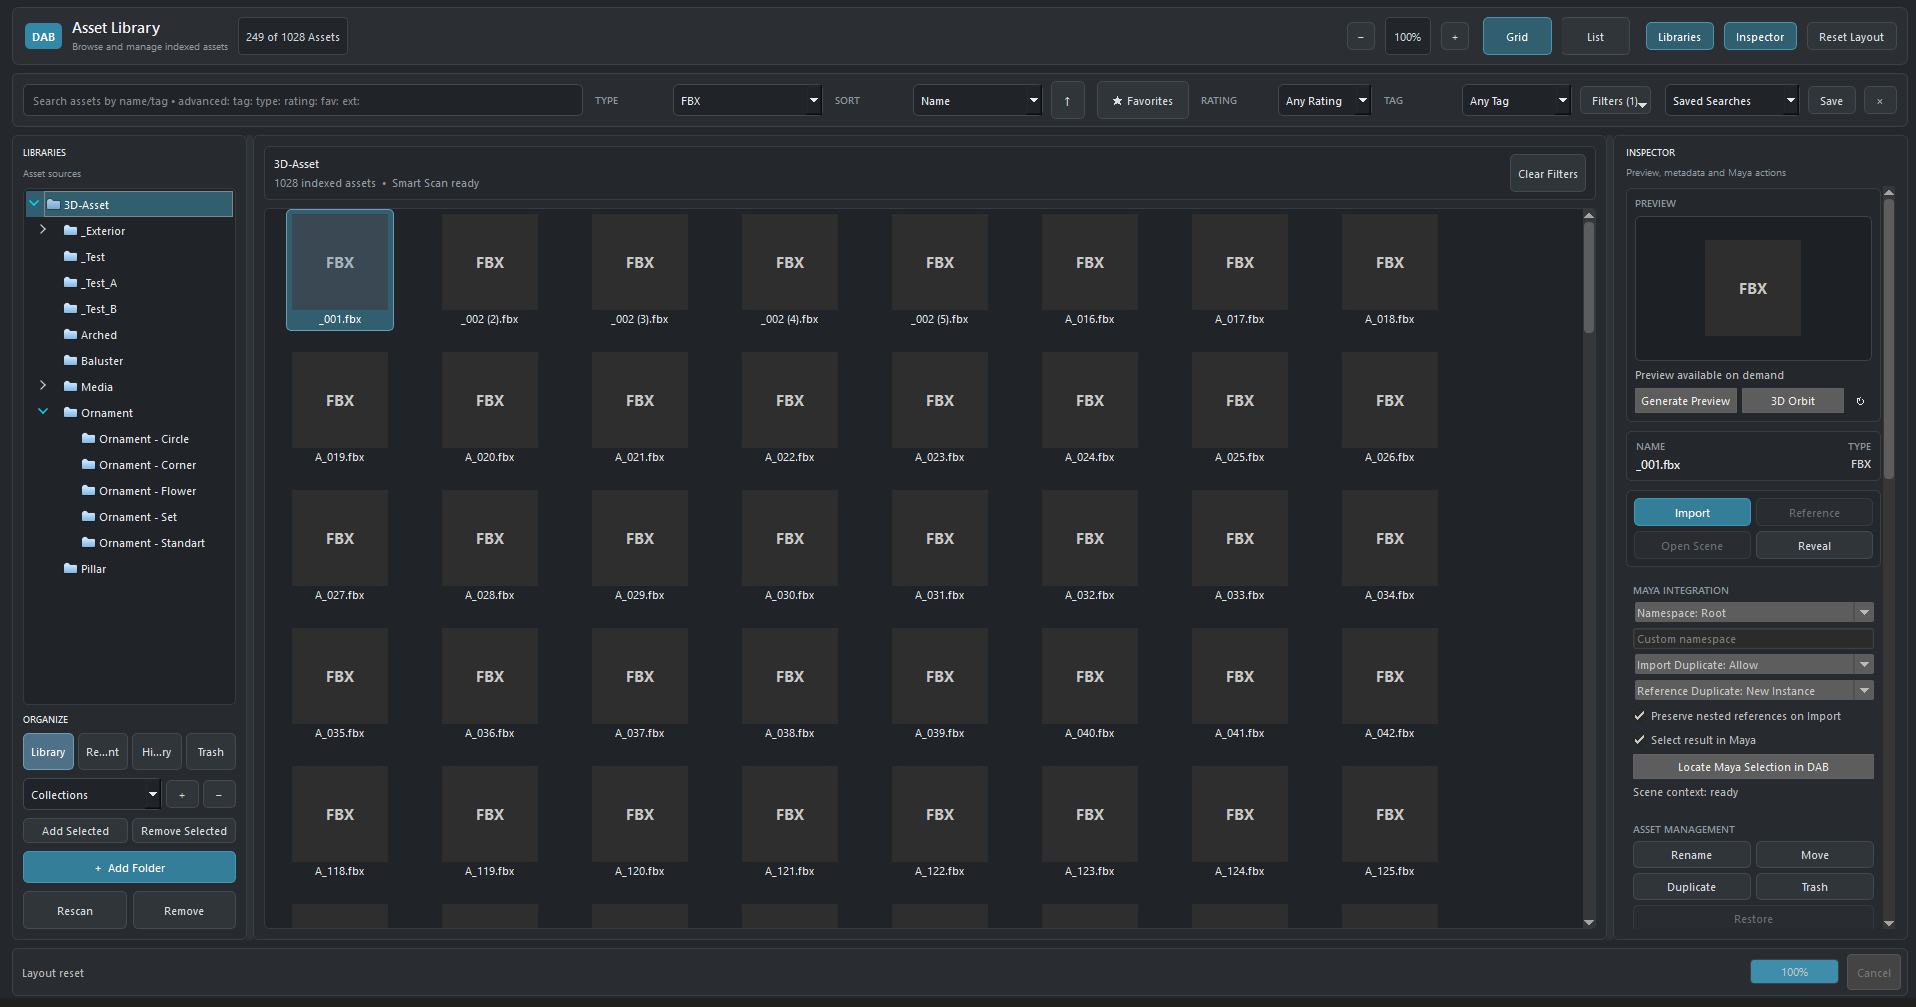
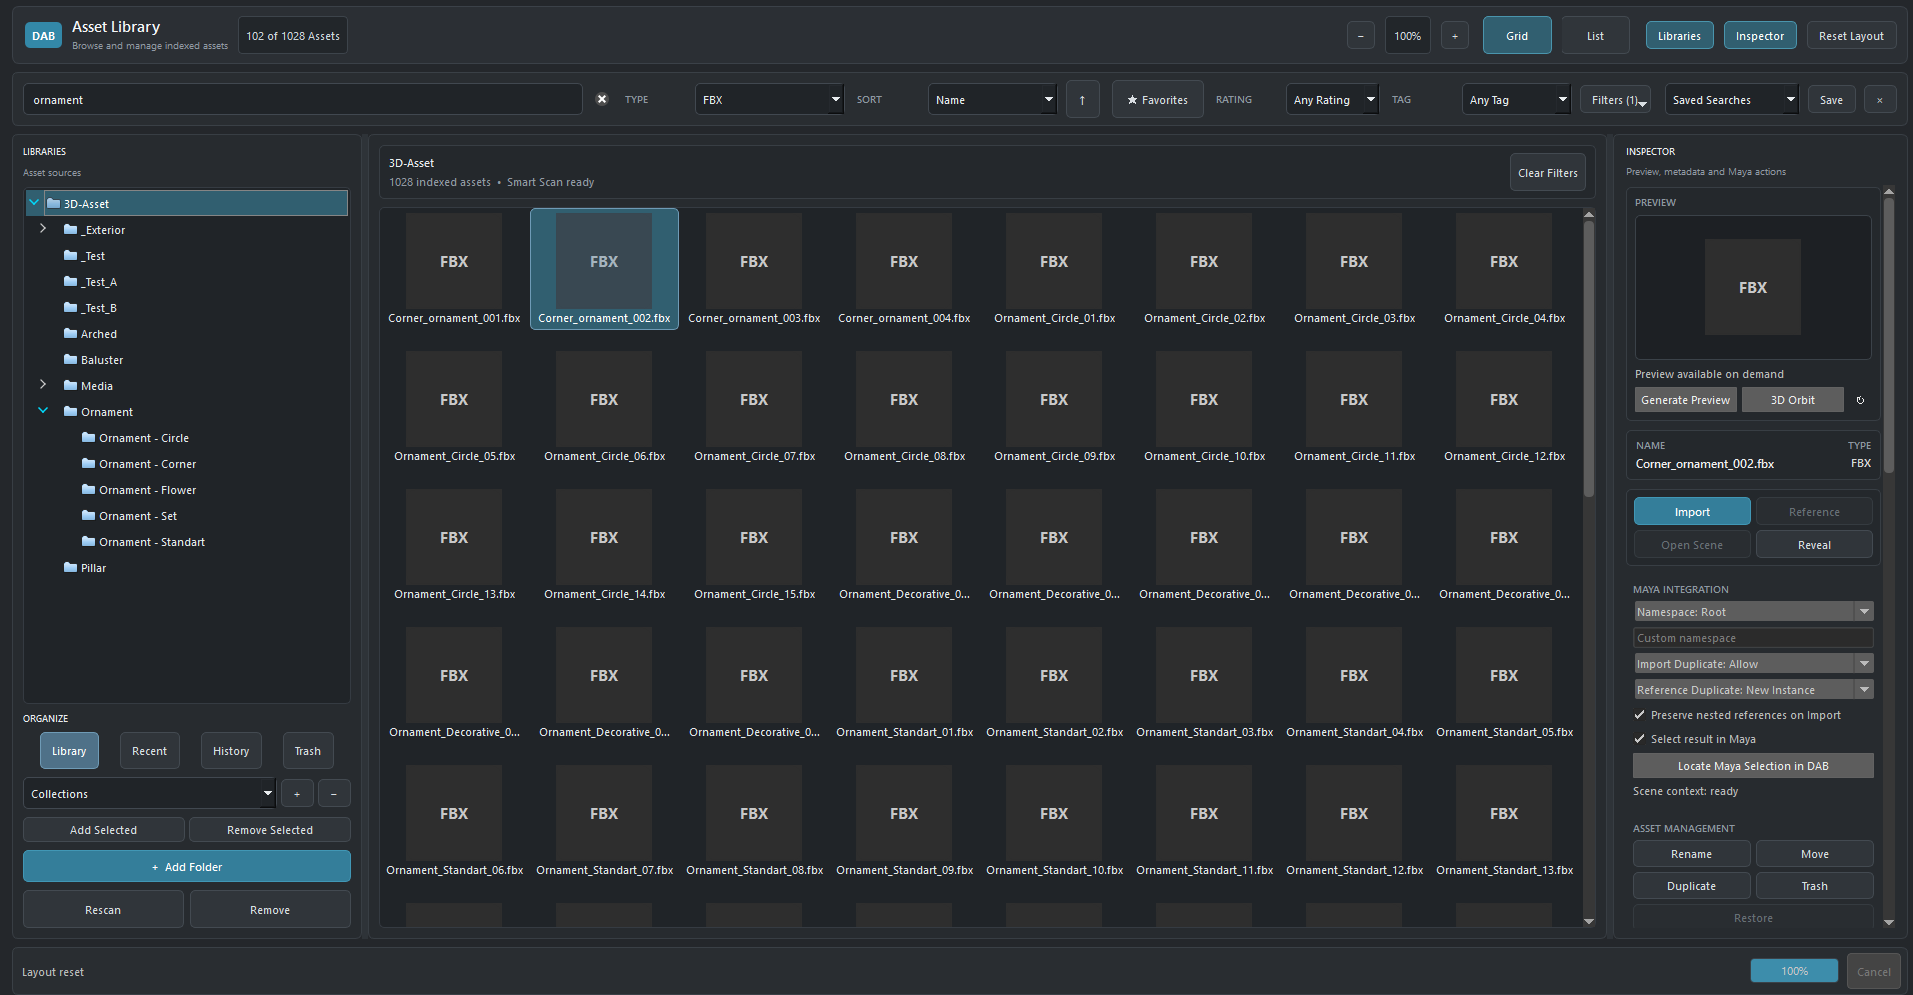
up

diff --git a/index.html b/index.html
@@ -2709,19 +2709,25 @@
       }
     }
 
-  
     .product-preview-intro {
       margin-top: 22px;
     }
 
     .product-preview-grid {
       display: grid;
-      grid-template-columns: repeat(2, minmax(0, 1fr));
-      gap: 24px;
+      grid-template-columns: 1fr;
+      gap: 22px;
       margin-top: 26px;
     }
 
     .product-preview-card {
+      display: grid;
+      grid-template-columns: minmax(260px, 360px) minmax(0, 1fr);
+      grid-template-areas:
+        "tag tag"
+        "image content";
+      gap: 18px 24px;
+      align-items: start;
       padding: 18px;
       border-radius: 22px;
       border: 1px solid rgba(86, 196, 255, 0.18);
@@ -2730,11 +2736,11 @@
     }
 
     .product-preview-card.featured {
-      grid-column: 1 / -1;
+      grid-column: auto;
     }
 
     .product-preview-card h3 {
-      margin: 16px 0 10px;
+      margin: 0 0 10px;
       font-size: 1.18rem;
       line-height: 1.35;
     }
@@ -2747,38 +2753,63 @@
     }
 
     .product-preview-card .zoom-shell {
+      grid-area: image;
       border-radius: 16px;
       overflow: hidden;
       border: 1px solid rgba(86, 196, 255, 0.16);
       background: rgba(2, 9, 16, 0.72);
+      min-height: 220px;
+      display: flex;
+      align-items: center;
+      justify-content: center;
+      padding: 14px;
     }
 
     .product-preview-card .zoomable {
       width: 100%;
+      height: 220px;
+      object-fit: contain;
       display: block;
       background: #08111b;
     }
 
     .product-preview-card .tag {
+      grid-area: tag;
       display: inline-flex;
-      margin-bottom: 14px;
+      margin-bottom: 0;
+      justify-self: start;
     }
 
     .product-preview-caption {
-      margin-top: 14px;
+      grid-area: content;
+      margin-top: 0;
+      align-self: center;
     }
 
     .product-preview-note {
       margin-top: 24px;
     }
 
+    .product-preview-ui-note {
+      margin-top: 18px;
+    }
+
     @media (max-width: 980px) {
-      .product-preview-grid {
+      .product-preview-card {
         grid-template-columns: 1fr;
+        grid-template-areas:
+          "tag"
+          "image"
+          "content";
       }
 
-      .product-preview-card.featured {
-        grid-column: auto;
+      .product-preview-card .zoom-shell {
+        min-height: 0;
+      }
+
+      .product-preview-card .zoomable {
+        height: auto;
+        max-height: 260px;
       }
     }
 
@@ -3096,7 +3127,7 @@
             <strong>Current DAB product showcase:</strong>
             The screenshots below show the current user-interface direction and working product areas that are actively being developed and tested.
             They are presented to show that DAB is already being shaped as a real Maya-integrated tool, not only as a concept.
-            Every image can be clicked to zoom.
+            Every image can be clicked to zoom, and the screenshots below are intentionally shown as compact previews so the section stays cleaner and easier to scan.
           </p>
         </div>
 
@@ -3107,6 +3138,13 @@
           to better support artists, technical artists, and asset-heavy workflows.
         </div>
 
+        <div class="small-note product-preview-ui-note">
+          <strong>UI direction note:</strong>
+          The interface is being shaped to feel as consistent as practical with Maya so the experience can look more integrated inside the host application.
+          Some visual themes, surface styling, and presentation details may still change over time because the current UI is a working <strong>demo</strong>,
+          not a final locked release.
+        </div>
+
         <div class="product-preview-grid">
           <article class="product-preview-card featured">
             <span class="tag">Current UI Preview</span>
@@ -3115,11 +3153,9 @@
               <span class="zoom-hint">Click to Zoom</span>
             </div>
             <div class="product-preview-caption">
-              <h3>Main DAB workspace inside Maya</h3>
+              <h3>Main DAB workspace and current UI direction</h3>
               <p>
-                This overview shows the current main workspace direction: the left side is used for library and folder navigation,
-                the center is focused on large-scale asset browsing, and the right side is reserved for preview, metadata, Maya actions,
-                and management controls. It communicates DAB as a real working interface for production browsing rather than only a static mockup.
+                This overview shows the current main workspace direction: the left side is used for library and folder navigation, the center is focused on large-scale asset browsing, and the right side is reserved for preview, metadata, Maya actions, and management controls. It is also part of the effort to make DAB feel visually closer to Maya so the tool appears more naturally integrated inside the host environment.
               </p>
             </div>
           </article>
